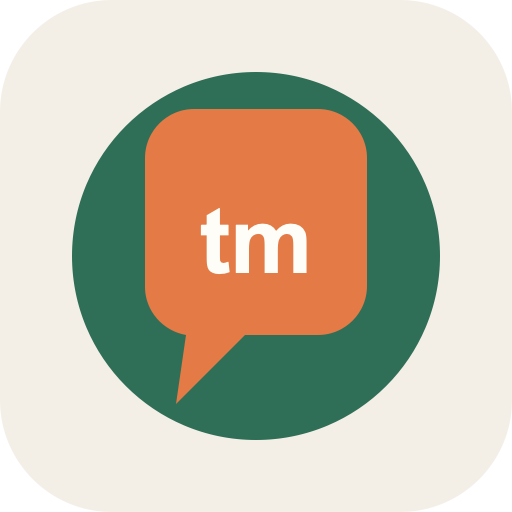
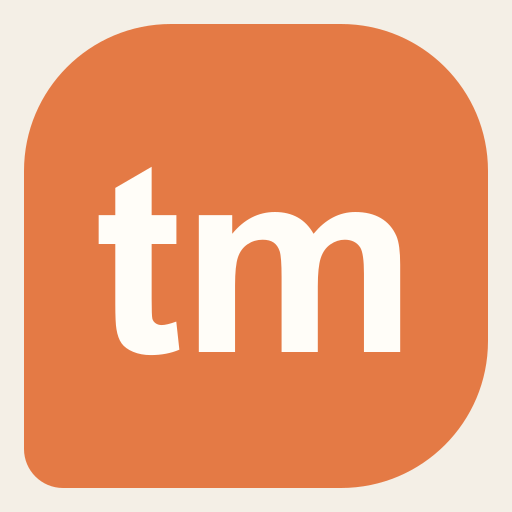
Update Tiny Messenger branding

diff --git a/src/app/globals.css b/src/app/globals.css
@@ -45,7 +45,7 @@ button { color: inherit; }
 .sidebar-header { justify-content: space-between; }
 .brand { display: flex; align-items: center; gap: 10px; font-family: "Unbounded", sans-serif; font-size: 13px; font-weight: 700; letter-spacing: -.02em; }
 .brand.light { color: #fff; }
-.brand-mark { width: 37px; height: 37px; display: inline-grid; place-items: center; flex: 0 0 auto; color: #fff; background: var(--orange); border-radius: 12px 12px 12px 3px; font-family: "Unbounded", sans-serif; font-size: 13px; font-weight: 700; box-shadow: 0 8px 20px rgba(228, 122, 69, .28); }
+.brand-mark { width: 37px; height: 37px; display: inline-grid; place-items: center; flex: 0 0 auto; color: #fff; background: var(--orange); border-radius: 12px 12px 12px 3px; font-family: "Unbounded", sans-serif; font-size: 16px; font-weight: 700; box-shadow: 0 8px 20px rgba(228, 122, 69, .28); }
 .brand-mark.big { width: 62px; height: 62px; border-radius: 19px 19px 19px 5px; font-size: 21px; }
 .icon-button, .small-icon-button, .mobile-back { display: inline-grid; place-items: center; padding: 0; border: 0; background: transparent; cursor: pointer; }
 .icon-button { width: 38px; height: 38px; border: 1px solid var(--line); border-radius: 12px; }

diff --git a/src/components/messenger-app.tsx b/src/components/messenger-app.tsx
@@ -1177,7 +1177,7 @@ export function MessengerApp({ sharedIdentifier = "", sharedLabel = "" }: { shar
 }
 
 function LoadingScreen() {
-  return <main className="loading-screen"><span className="brand-mark big pulse">tm</span><p>Открываем канал…</p></main>;
+  return <main className="loading-screen"><span className="brand-mark big pulse">tm</span><p>Открываем чаты...</p></main>;
 }
 
 function WelcomeScreen({ busy, notice, sharedLabel, onRegister, onLogin }: { busy: boolean; notice: string; sharedLabel: string; onRegister: (name: string, nickname: string) => void; onLogin: (token: string) => void }) {

diff --git a/src/app/layout.tsx b/src/app/layout.tsx
@@ -12,10 +12,7 @@ export const metadata: Metadata = {
     title: "Tiny Messenger",
   },
   icons: {
-    icon: [
-      { url: "/icon-192.png", sizes: "192x192", type: "image/png" },
-      { url: "/icon-512.png", sizes: "512x512", type: "image/png" },
-    ],
+    icon: [{ url: "/favicon.svg", type: "image/svg+xml" }],
     apple: [{ url: "/icon-192.png", sizes: "192x192", type: "image/png" }],
   },
 };

diff --git a/public/sw.js b/public/sw.js
@@ -1,4 +1,4 @@
-const CACHE_NAME = "tiny-messenger-shell-v2";
+const CACHE_NAME = "tiny-messenger-shell-v3";
 const APP_SHELL = ["/", "/manifest.webmanifest", "/icon-192.png", "/icon-512.png"];
 
 self.addEventListener("install", (event) => {
